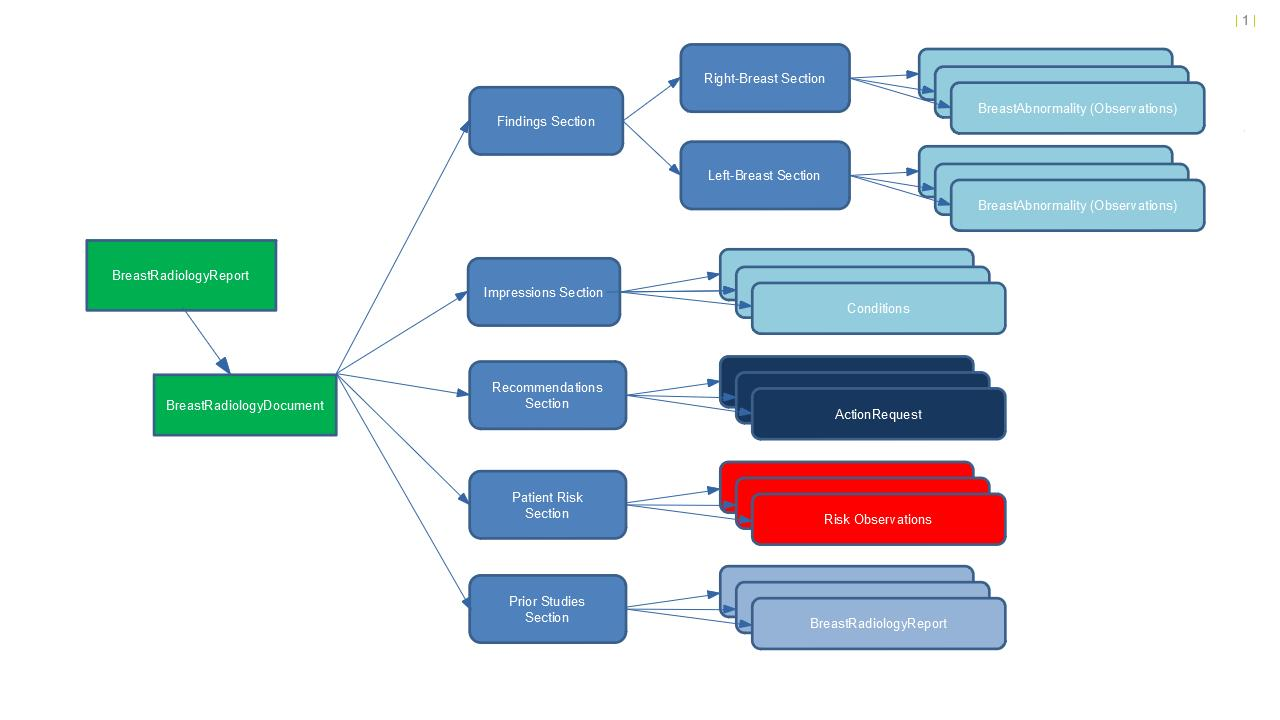
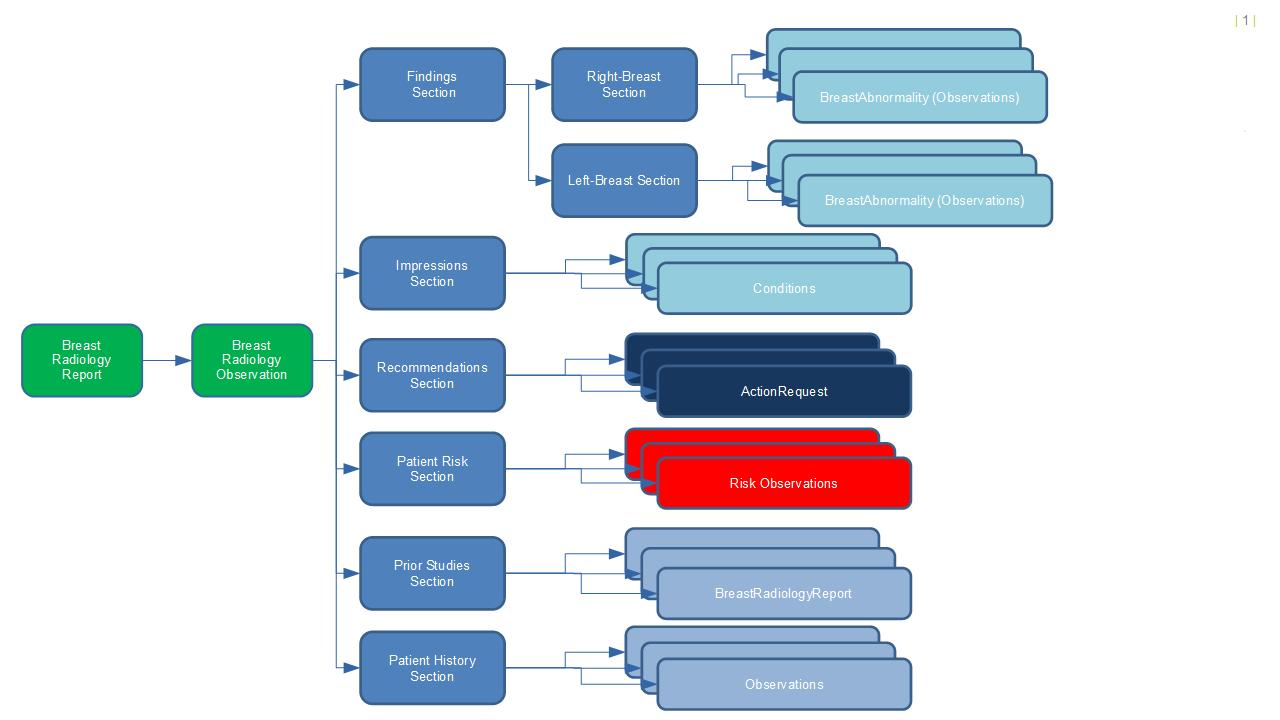
.

diff --git a/Projects/BreastRadiology/IG/guide/pages/index.html b/Projects/BreastRadiology/IG/guide/pages/index.html
@@ -44,6 +44,9 @@
 <h3><a name="Overview"></a>Overview of a breast radiology report</h3>
 <p>The following graphic should provide a high-level view of the existing expectations and documentation conventions of a typical breast radiology report.</p>
 <p><img src="ProfileOverview.jpg" alt="Profile Overview" /></p>
+<p>The following graphic provides details of the existing observations 
+that are made and expected of a breast abnormality.</p>
+<p><img src="BreastAbnormality.jpg" alt="Breast Abnormality Observation Overview" /></p>
 <h3><a name="Modeling"></a>FHIR Modeling choices</h3>
 <p>In the context of FHIR we are currently utilizing the FHIR DiagnosticReport anchor resource as since it provides a resource definition that can be referenced in a broad variety of other clinical communications as the reason for other treatment and diagnostic choices.  This resource does not however provide the structural capabilities to aggregate together collections of observation, conditions and recommendations into the sections and subsections that are currently expected in a breast radiology report.  For this ballot we have chosen to use the Composition resource which was designed for this purpose.  Since DiagnosticReport did not inherently provide a method to reference Composition in this way, we were left with the somewhat awkward option of constraining out the Result attribute and then adding back in a nearly identical attribute ResultComposition which allows for referencing Composition.</p>
 <p>While nothing being done here is specifically forbidden within FHIR, we feel that taken together this strategy has.  We also feel that when a solution is found to these structural challenges it should be clearly documented so that as the many hundreds of similar profiling projects scale up future teams will benefit from clear guidance and more obvious design choices.</p>
